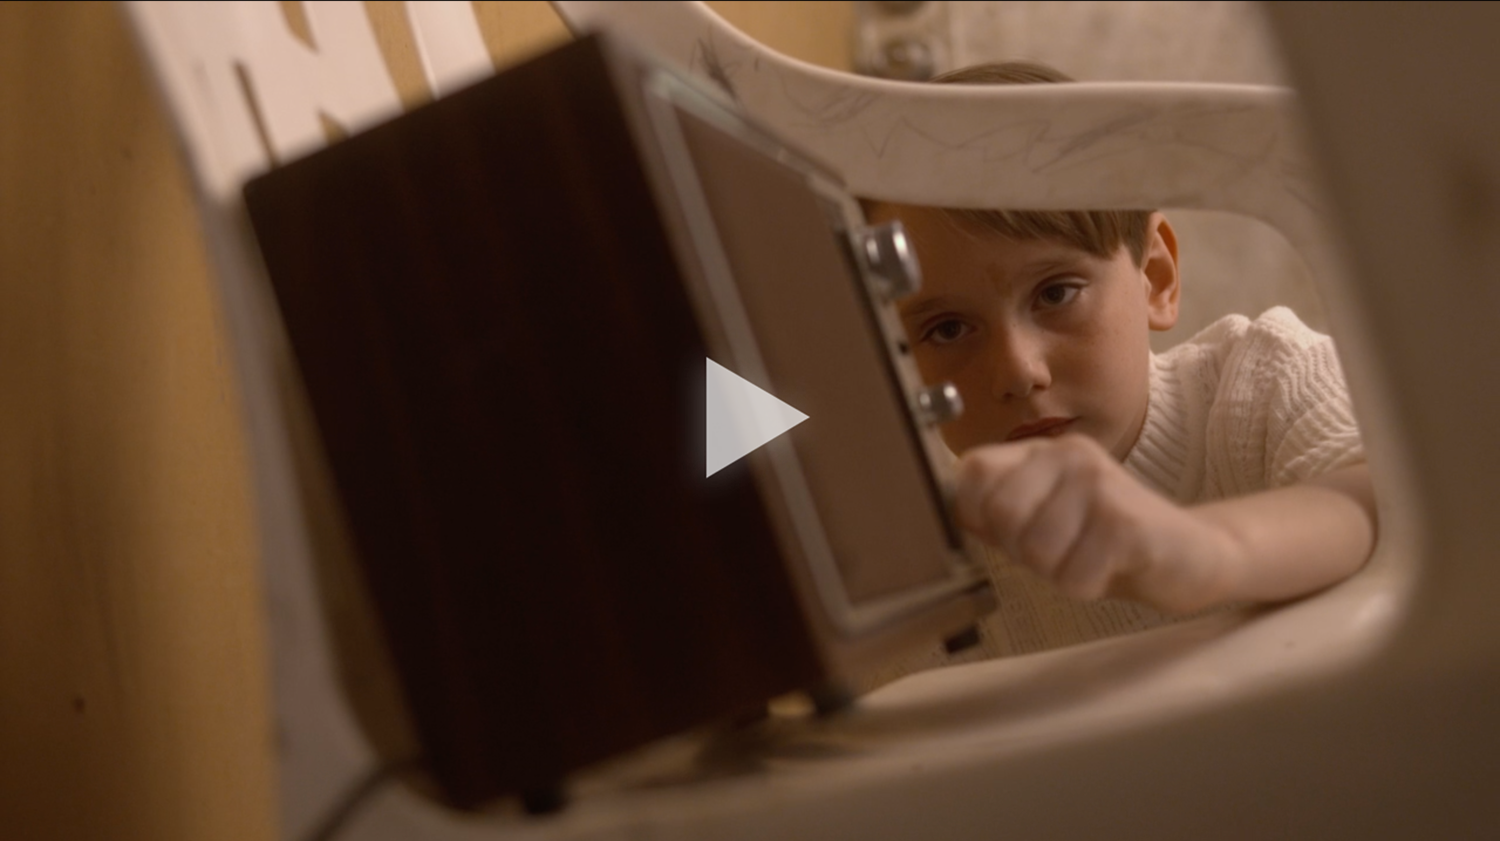
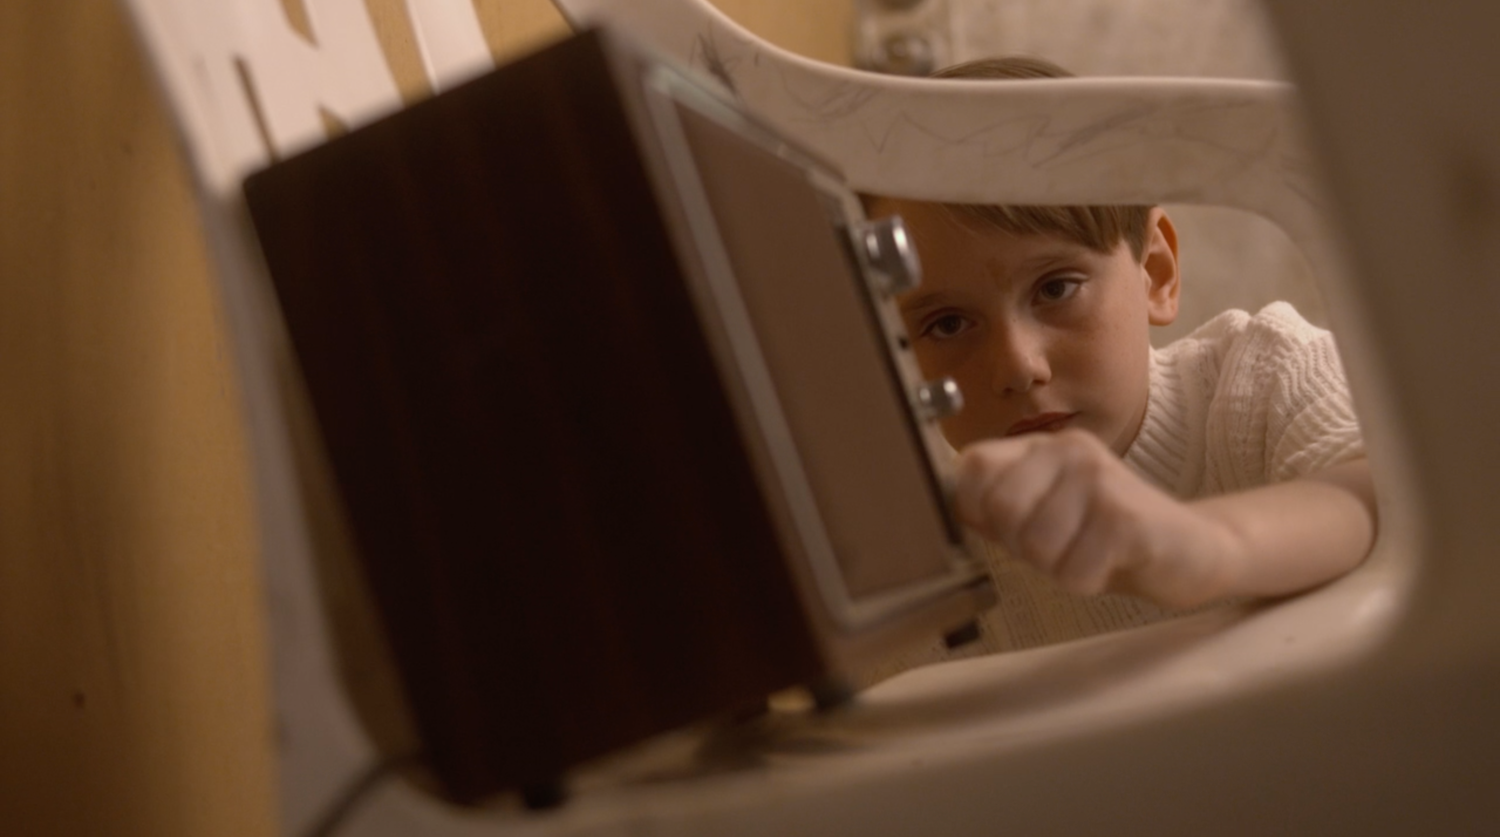
update thumbnail, remove old links

diff --git a/pages/film/narrative.html b/pages/film/narrative.html
@@ -274,11 +274,11 @@
                 <div class="film-row">
                   <div class="film-row-column">
                     <h3 class="film-row-title">Official Selection</h3>
-                    <p style="
+                    <a style="
                     margin: 14px 0 0;
                     text-decoration: underline;
                     "
-                    href="https://tiff.net/events/the-legend-of-the-vagabond-queen-of-lagos"
+                     href="https://tiff.net/events/the-legend-of-the-vagabond-queen-of-lagos"
                     >
                     Toronto International Film Festival 2024</p>
                   </div>
@@ -646,7 +646,7 @@
               <img
                 onclick="event.target.style.opacity = '0', event.target.style.visibility = 'hidden'"
                 class="video-thumbnail"
-                src="/images/lulu_thumbnail.png"
+                src="/images/lulu_thumbnail.jpg"
               />
               <iframe
                 class="vimeo"
@@ -823,8 +823,6 @@
                     Bite Size Halloween 2020 stream on Hulu</a
                   >
                   <a
-                    style="text-decoration: underline"
-                    href="https://canneseries.com/en/series/o-day-1/"
                   >
                     CANNESERIES - Short Form Competition</a
                   >
@@ -844,12 +842,6 @@
                   <a
                     style="text-decoration: underline"
                     href="https://io9.gizmodo.com/get-a-quick-dose-of-horror-with-hulus-bite-size-hallowe-1845305806"
-                  >
-                    GIZMONDO</a
-                  >
-                  <a
-                    style="text-decoration: underline"
-                    href="https://bloody-disgusting.com/sponsored/3635765/20th-digital-studios-bite-size-halloween-directors-tell-us-favorite-halloweentime-movies-watch/"
                   >
                     BloodyDisgusting</a
                   >
@@ -914,10 +906,7 @@
                   </p>
                   <h3 class="film-row-title">Official Selection</h3>
                   <p style="margin-top: 14px; margin-bottom: 0">AFI Fest</p>
-                  <a
-                    style="margin: 0; text-decoration: underline"
-                    href="https://www.inthepalace.com/en/17th-palace/festival/17th-film-programme.html"
-                  >
+                  <a >
                     IN THE PALACE International Short Film Festival</a
                   >
                   <p style="margin: 0">Orlando Film Festival</p>
@@ -930,10 +919,7 @@
                     Philadelphia Independent Film Festival
                   </p>
                   <p style="margin: 0">Pune Short Film Festival</p>
-                  <a
-                    style="margin: 0; text-decoration: underline"
-                    href="https://www.womensfilmfestival.com/shorts/4/under-the-flag"
-                  >
+                  <a >
                     St. John's International Women's Film Festival</a
                   >
                 </div>
@@ -1013,16 +999,10 @@
                   </p>
                   <h3 class="film-row-title">Official Selection</h3>
                   <p style="margin-top: 14px; margin-bottom: 0">AFI Fest</p>
-                  <a
-                    style="margin: 0; text-decoration: underline"
-                    href="https://labrasserieducourt.com/en/fort-irwin/"
-                  >
+                  <a >
                     Clermont-Ferrand Film Festival</a
                   >
-                  <a
-                    style="margin: 0; text-decoration: underline"
-                    href="http://www.bafta.org/los-angeles/events-initiatives/news/shortlist-announced-for-2020-bafta-student-film-awards-presented"
-                  >
+                  <a>
                     Shortlisted at GSA BAFTA Student Film Awards</a
                   >
                   <p style="margin: 0">Fantastic Fest</p>

diff --git a/pages/film/experiment.html b/pages/film/experiment.html
@@ -352,28 +352,6 @@
                 existence, and filmed our perspective of this story.
               </p>
             </div>
-            <div class="about-spacer">
-              <div class="about-spacer-content">&nbsp;</div>
-            </div>
-            <div class="video-holder">
-              <img class="video-thumbnail" src="/images/bridge_thumbnail.png" />
-            </div>
-            <div class="film-info">
-              <h3>The Bridge | 2015 | 3min | visual essay</h3>
-              <p class="crew" style="margin: 14px 40px">
-                Directed and written by Yiqing Yu<br />
-                Cinematography by Yiqing Yu<br />
-                Edited by Yiqing Yu
-              </p>
-              <p>
-                I intended to document a meeting of the two sides of myself on a
-                bridge. It's not the first time they met, but it's been a while
-                since one of them moved to Hong Kong for college education.
-              </p>
-            </div>
-            <div class="about-spacer">
-              <div class="about-spacer-content">&nbsp;</div>
-            </div>
           </div>
         </section>
       </div>

diff --git a/pages/film/documentary.html b/pages/film/documentary.html
@@ -284,7 +284,7 @@
               <img
                 onclick="event.target.style.opacity = '0', event.target.style.visibility = 'hidden'"
                 class="video-thumbnail"
-                src="/images/sound_stage_thumbnail.png"
+                src="/images/sound_stage_thumbnail.jpg"
               />
               <iframe
                 class="vimeo"
@@ -327,7 +327,7 @@
               <img
                 onclick="event.target.style.opacity = '0', event.target.style.visibility = 'hidden'"
                 class="video-thumbnail"
-                src="/images/fwe_thumbnail.png"
+                src="/images/slide_fwe.png"
               />
               <iframe
                 class="vimeo"
